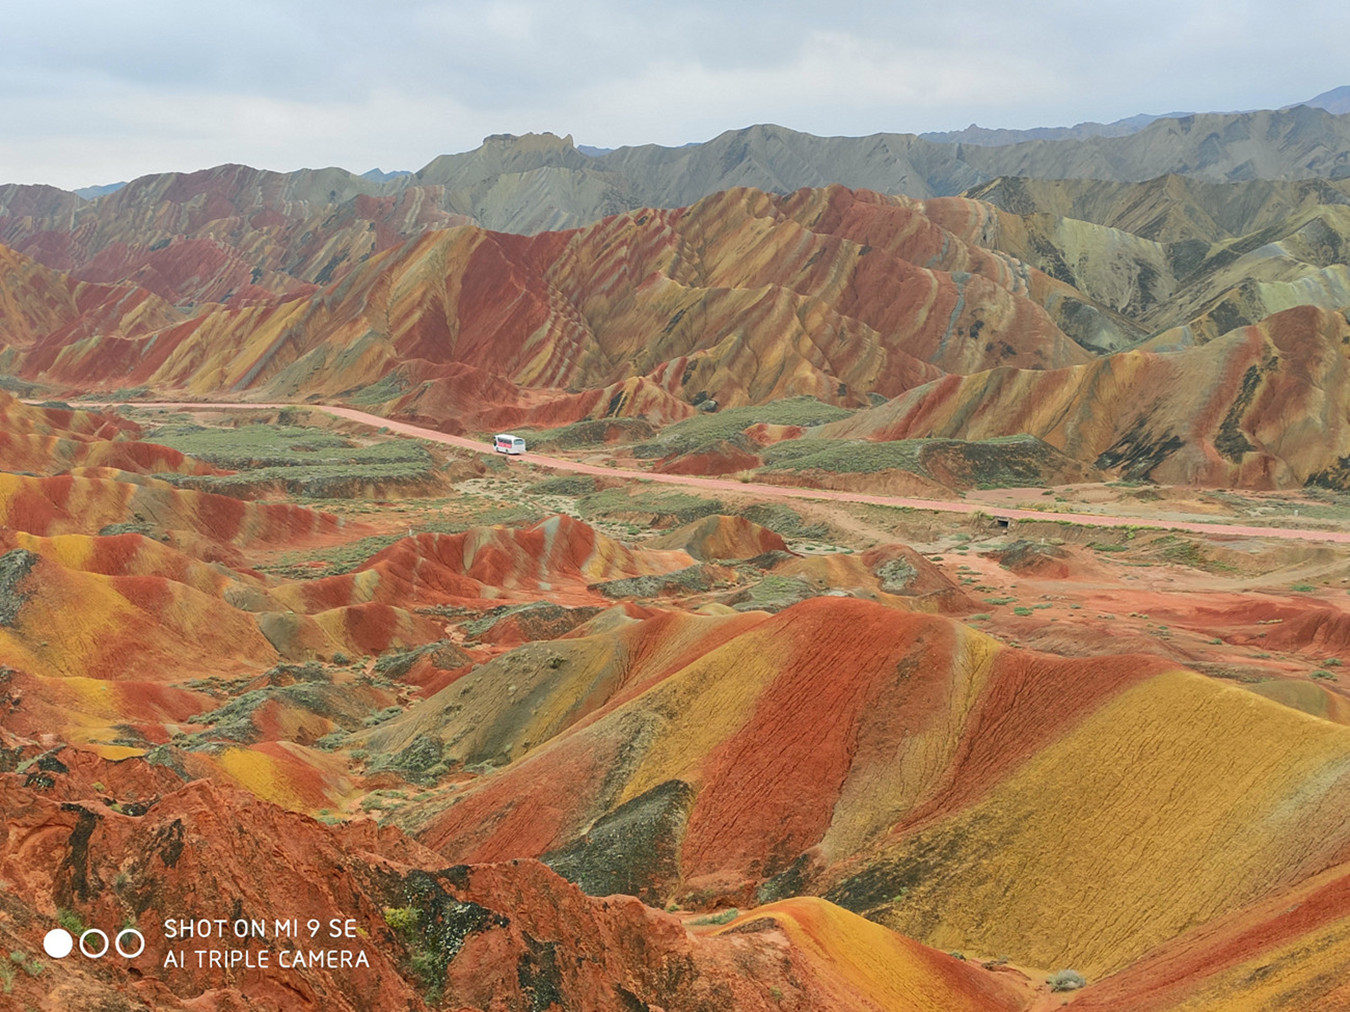
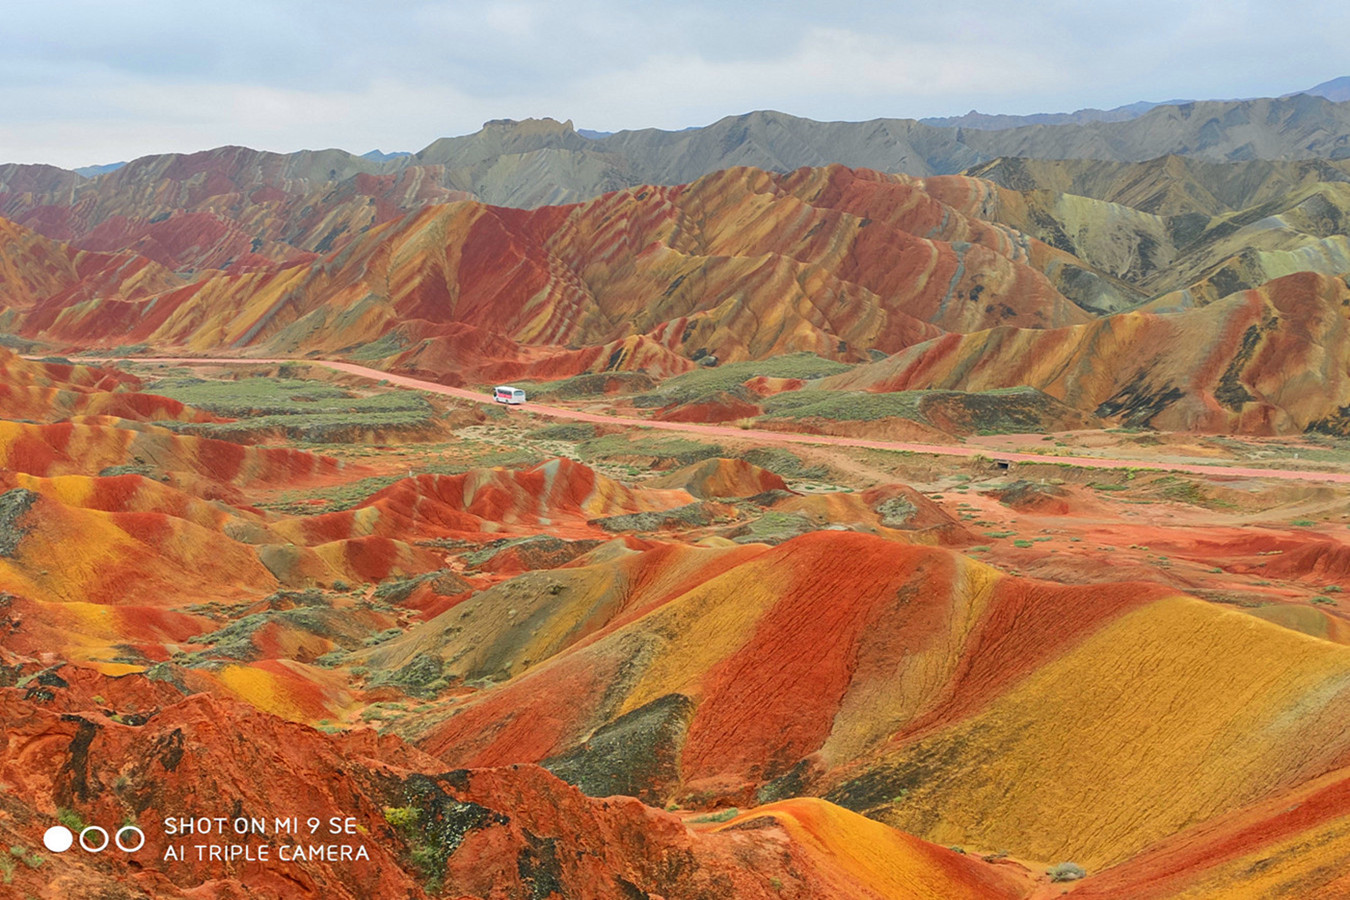
update

Changed region(s): [[0.56, 0.8711, 0.7156, 1.0], [0.1556, 0.7467, 0.2178, 0.7778]]

diff --git a/_posts/2019-10-07-colorful-danxia.md b/_posts/2019-10-07-colorful-danxia.md
@@ -4,7 +4,7 @@ title:  "Colorful mountain, the beauty of nature: Danxia Landform "
 author: david
 categories: [ Travel ]
 tags: [ China ]
-image: https://rainbow-ux.github.io/traveler-blog.github.io/assets/images/2019-10-07/2019-10-07-colorful-mountain-02.jpg
+image: https://rainbow-ux.github.io/traveler-blog.github.io/assets/images/2019-10-07/2019-10-07-colorful-mountain-01.jpg
 comments: true
 rating: 4
 ---
